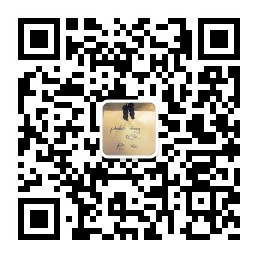
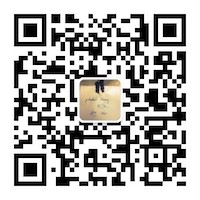
[T] resize images

Changed region(s): [[0.06, 0.06, 0.93, 0.93], [0.48, 0.42, 0.51, 0.48]]

diff --git a/ebook.md b/ebook.md
@@ -2,7 +2,7 @@
 关于作者
 ---
 
-黄峰达（Phodal Huang）是一个开发者、创作者和作家。他毕业于西安文理学院电子信息工程专业，现作为一个咨询师就职于 ThoughtWorks。长期活跃于开源软件社区 GitHub，目前专注于物联网和前端领域。他是一个开源狂热者，并创建了一系列的开源项目在 GitHub 上。每天在结束日常的工作后，他喜欢去重新发明一些轮子。
+黄峰达（Phodal Huang）是一个创客、工程师、咨询师和作家。他毕业于西安文理学院电子信息工程专业，现作为一个咨询师就职于 ThoughtWorks 深圳。长期活跃于开源软件社区 GitHub，目前专注于物联网和前端领域。
 
 作为一个开源软件作者，著有 Growth、Stepping、Lan、Echoesworks 等软件。其中开源学习应用 Growth，广受读者和用户好评，可在 APP Store 及各大 Android 应用商店下载。
 
@@ -12,16 +12,16 @@
 
 他热爱编程、写作、设计、旅行、hacking，你可以从他的个人网站：[https://www.phodal.com/](https://www.phodal.com/) 了解到更多的内容。
 
-作者微信公众号:
-
-![phodal-weixin](images/wechat.jpg)
-
-相关信息：
+其它相关信息：
 
  - 微博：[http://weibo.com/phodal](http://weibo.com/phodal)
  - GitHub： [https://github.com/phodal](https://github.com/phodal)
  - 知乎：[https://www.zhihu.com/people/phodal](https://www.zhihu.com/people/phodal)
  - SegmentFault：[https://segmentfault.com/u/phodal](https://segmentfault.com/u/phodal)
+
+当前为预览版，在使用的过程中遇到任何遇到请及时与我联系。阅读过程中问题，不烦在GitHub上提出来： [Issues](https://github.com/phodal/fe/issues)
+
+阅读过程中遇到语法错误、拼写错误、技术错误等等，不烦来个Pull Request，这样可以帮助到其他阅读这本电子书的童鞋。
 
 其他电子书：
 
@@ -32,11 +32,11 @@
  * 《[Growth: 全栈增长工程师指南](https://github.com/phodal/growth-ebook)》
  * 《[Growth: 全栈增长工程师实战](https://github.com/phodal/growth-in-action)》
 
-当前为预览版，在使用的过程中遇到任何遇到请及时与我联系。阅读过程中问题，不烦在GitHub上提出来： [Issues](https://github.com/phodal/fe/issues)
+作者微信公众号:
 
-阅读过程中遇到语法错误、拼写错误、技术错误等等，不烦来个Pull Request，这样可以帮助到其他阅读这本电子书的童鞋。
+![作者微信公众号：phodal-weixin](images/wechat.jpg)
 
-愿意支持作者或者遇到难题，可以加入 phodal 的小密圈:
+支持作者，可以加入作者的小密圈:
 
 ![小密圈](images/xiaomiquan.jpg)
 
@@ -77,55 +77,55 @@
 
 这些技能便是：
 
-### 入门
+#### 入门
 
 在我理解下的基础知识，就是我们可以写一些基本的样式，并能对页面的元素进行操作。举例来说，就是我们用Spring和JSP写了一个博客，然后我们可以用jQuery来对页面进行一些简单的操作，并可以调用一些API。因此，我们需要基本的HTML / CSS知识。只是要写好CSS并不是一件简单的事，这需要很多实战经验。随后，我们还需要有JavaScript的经验，要不怎么做前端呢？
 
 同时，我们还需要对DOM有一些基础的了解，才能做一些基本的操作，如修改颜色等等。在这种情况下，最简单的方案就是使用jQuery这样的工具。不过，如果可以自己操作DOM是再好不过的了。
 
-### 中级篇 
+#### 中级篇 
 
 中级篇就更有意思了，现在我们就需要对页面进行更复杂的操作。Ajax和JSON这两个技能是必须的，当我们要动态的改变页面的元素时，我们就需要从远程获取最新的数据结果。并且我们也需要提交表单到服务器，RESTful就是必须要学会的技能。未来我们还需要Fetch API，ReactiveX这些技能。
 
 除此我们还需要掌握好HTML的语义化，像DIV / CSS这也会必须会的技能，我们应该还会使用模板引擎和SCSS / SASS。而这个层面来说，我们开始使用Node.js来完成前端的构建等等的一系列动作，这时候必须学会使用命令行这类工具。并且，在这时候我们已经开始构建单页面应用了。
 
-### 高级篇
+#### 高级篇
 
 JavaScript是一门易上手的语言，也充满了相当多的糟粕的用法。几年前人们使用CoffeeScript编成成JavaScript来编写更好的前端代码，现在人们有了ES6、TypeScript和WebPack来做这些事。尽管现在浏览器支持不完善，但是他们是未来。同样的还有某些CSS3的特性，其对于某些浏览器来说也是不支持的。而这些都是基于语言本来说的，要写好代码，我们还需要掌握面向对象编程、函数式编程、MVC / MVVM / MV*这些概念。作为一合格的工程师，我们还需要把握好安全性（如跨域），做好 授权（如HTTP Basic、JWT等等）。
 
-### 工程化
+#### 工程化
 
 这个标题好像是放错了，这部分的内容主要都是自动构建的内容。首先，我们需要有基本的构建工具，无论你是使用gulp、grunt，还是只使用npm，这都不重要。重要的是，你可以自动化的完成构建的工具，编译、静态代码分析（JSLint、CSS Lint、TSLint）、对代码质量进行分析（如Code Climate，可以帮你检测出代码中的Bad Smell）、运行代码中的测试，并生成测试覆盖率的报告等等。这一切都需要你有一个自动构建的工作流。
 
-### 兼容性
+#### 兼容性
 
 虽然我们离兼容IE6的时代已越来越远了，但是我们仍然有相当多的兼容性工作要做。基本的兼容性测试就是跨浏览器的测试，即Chrome，IE，Firefox，Safari等等。除此还有在不同的操作系统上对同一浏览器的测试，某些情况下可能表现不一致。如不同操作系统的字体大小，可能会导致一些细微的问题。而随着移动设备的流行，我们还需要考虑下不同Android版本下的浏览器内核的表现不致，有时候还要一下不成器的Windows Phone。除此，还有同一个浏览器的不同版本问题，常见于IE。。
 
-### 前端特定
+#### 前端特定
 
 除了正常的编码之外，前端还有一些比较有意思的东西，如CSS3和JavaScript动画。使用Web字体，可惜这个不太适合汉字使用。还有Icon字体，毕竟这种字体是矢量的。不过Icon字体还有一些问题，如浏览器对其的抗锯齿优化，还有一个痛是你得准备四种不同类型的字体文件。因此，产生了一种东西SVG Sprite，在以前这就是CSS Sprite，只是CSS Sprite不能缩放。最后，我们还需要掌握一些基本的图形和图表框架的使用。
 
-### 软件工程
+#### 软件工程
 
 这一点上和大部分语言的项目一样，我们需要使用版本管理软件，如git、svn，又或者是一些内部的工具。总之你肯定要有一个，而不是 2016.07.31.zip这种文件。然后，你还需要一些依赖管理工具，对于那些使用Webpack、Browserify来将代码编写成前端代码的项目来说，npm还是挺好用的。不过就个人来说，对于传统的项目来说我总觉得bower有些难用。我们还需要模块化我们的源码文件，才能使其他人更容易开始项目。
 
-### 调试
+#### 调试
  
 作为一个工程师来说，调试是必备的技能。大部分浏览器都自带有调试工具，他们都不错——如果你使用过的话。在调试的过程中，直接用Console就可以输出值、计算值等等。如果你的项目在构建的过程中有一些问题，你就需要debugger这一行代码了。在一些调用远程API的项目里，我们还需要一些更复杂的工具，即抓包工具。在调试移动设备时，像Wireshark、Charles这一类的工具，就可以让我们看到是否有一些异常的请求。当然在这个时候，还有一个不错的工具就是像Chrome自带的远程设备调试。对于移动网站来说，还要有Responsive视图。
  
-### 测试
+#### 测试
 
 我遇到的很多前端工程师都是不写测试的，于是我便把它单独地抽了出现。对于一个前端项目来说，正常情况下，我们要有单元测试、功能测试，还有要一些UI测试来验证页面间是否可以跳转。对于依赖于第三方服务的应用来说，还要有一个Mock的服务来方便我们测试。如果是前后端分离的项目，我们还需要有集成测试。
 
-### 性能与优化
+#### 性能与优化
 
 要对Web应用进行性能优化，可能不是一件容易的事，有时候我们还知道哪些地方可以优化。这时候人们就可以使用Yahoo的YSlow，或者我最喜欢的Google PageSpeed来检测页面的一些问题，如有没有开启GZip、有没有压缩、合并、Minify JS代码等等。我们还应该借助于NetWork这一类的工具，查看页面加载时，一些比较漫的资源文件，并对其进行优化。在一些情况下，我们还需要借助如Chrome的Timline、Profiel等工具来查看可以优化的地方。
 
-### 设计
+#### 设计
 
 前端工程师还需要具备基本的UI技能。多数情况下拿到的只是一张图，如果是一个完整的页面，我们就需要快速分割页面布局。而依赖于不同的页面布局，如响应式、网格、FlexBox布局也会有不同的设计。而有些时候，我们就需要自己规划，制作一个基本的线框图（Wireframe）等等。
 
-### SEO
+#### SEO
 
 如果以搜索引擎作为流量来源，我们还需要考虑页面的内容，除非你用的是竞争排名。像Sitemap可能就不是我们考虑的内容，而我们还要考虑很多点。首先，我们需要保证页面的内容是对于搜索引擎是可见的，并且对应的页面还要有基本的Title、Description和Keyword。然后在一些关键的字体，如栏目标题等等可以用H2之类的大字的地方就不要放过。同时在页面设计的过程中，我们还需要考虑一些内部链接的建设。它即可以提供页面的可见度，又可以提高排名。最后，如果你是面向的是Google等支持结构化数据的搜索引擎，你还需要考虑一下MicroData / MicroFormat这一类东西。
 
@@ -1968,3 +1968,6 @@ domain: 库存子域
 上线后，用户反馈了一堆 Bug。
 
 最后，祝大家修 bug 愉快。
+
+
+![](images/phodal-sign.jpg)

diff --git a/chapters/0-prelude.md b/chapters/0-prelude.md
@@ -35,55 +35,55 @@
 
 这些技能便是：
 
-### 入门
+#### 入门
 
 在我理解下的基础知识，就是我们可以写一些基本的样式，并能对页面的元素进行操作。举例来说，就是我们用Spring和JSP写了一个博客，然后我们可以用jQuery来对页面进行一些简单的操作，并可以调用一些API。因此，我们需要基本的HTML / CSS知识。只是要写好CSS并不是一件简单的事，这需要很多实战经验。随后，我们还需要有JavaScript的经验，要不怎么做前端呢？
 
 同时，我们还需要对DOM有一些基础的了解，才能做一些基本的操作，如修改颜色等等。在这种情况下，最简单的方案就是使用jQuery这样的工具。不过，如果可以自己操作DOM是再好不过的了。
 
-### 中级篇 
+#### 中级篇 
 
 中级篇就更有意思了，现在我们就需要对页面进行更复杂的操作。Ajax和JSON这两个技能是必须的，当我们要动态的改变页面的元素时，我们就需要从远程获取最新的数据结果。并且我们也需要提交表单到服务器，RESTful就是必须要学会的技能。未来我们还需要Fetch API，ReactiveX这些技能。
 
 除此我们还需要掌握好HTML的语义化，像DIV / CSS这也会必须会的技能，我们应该还会使用模板引擎和SCSS / SASS。而这个层面来说，我们开始使用Node.js来完成前端的构建等等的一系列动作，这时候必须学会使用命令行这类工具。并且，在这时候我们已经开始构建单页面应用了。
 
-### 高级篇
+#### 高级篇
 
 JavaScript是一门易上手的语言，也充满了相当多的糟粕的用法。几年前人们使用CoffeeScript编成成JavaScript来编写更好的前端代码，现在人们有了ES6、TypeScript和WebPack来做这些事。尽管现在浏览器支持不完善，但是他们是未来。同样的还有某些CSS3的特性，其对于某些浏览器来说也是不支持的。而这些都是基于语言本来说的，要写好代码，我们还需要掌握面向对象编程、函数式编程、MVC / MVVM / MV*这些概念。作为一合格的工程师，我们还需要把握好安全性（如跨域），做好 授权（如HTTP Basic、JWT等等）。
 
-### 工程化
+#### 工程化
 
 这个标题好像是放错了，这部分的内容主要都是自动构建的内容。首先，我们需要有基本的构建工具，无论你是使用gulp、grunt，还是只使用npm，这都不重要。重要的是，你可以自动化的完成构建的工具，编译、静态代码分析（JSLint、CSS Lint、TSLint）、对代码质量进行分析（如Code Climate，可以帮你检测出代码中的Bad Smell）、运行代码中的测试，并生成测试覆盖率的报告等等。这一切都需要你有一个自动构建的工作流。
 
-### 兼容性
+#### 兼容性
 
 虽然我们离兼容IE6的时代已越来越远了，但是我们仍然有相当多的兼容性工作要做。基本的兼容性测试就是跨浏览器的测试，即Chrome，IE，Firefox，Safari等等。除此还有在不同的操作系统上对同一浏览器的测试，某些情况下可能表现不一致。如不同操作系统的字体大小，可能会导致一些细微的问题。而随着移动设备的流行，我们还需要考虑下不同Android版本下的浏览器内核的表现不致，有时候还要一下不成器的Windows Phone。除此，还有同一个浏览器的不同版本问题，常见于IE。。
 
-### 前端特定
+#### 前端特定
 
 除了正常的编码之外，前端还有一些比较有意思的东西，如CSS3和JavaScript动画。使用Web字体，可惜这个不太适合汉字使用。还有Icon字体，毕竟这种字体是矢量的。不过Icon字体还有一些问题，如浏览器对其的抗锯齿优化，还有一个痛是你得准备四种不同类型的字体文件。因此，产生了一种东西SVG Sprite，在以前这就是CSS Sprite，只是CSS Sprite不能缩放。最后，我们还需要掌握一些基本的图形和图表框架的使用。
 
-### 软件工程
+#### 软件工程
 
 这一点上和大部分语言的项目一样，我们需要使用版本管理软件，如git、svn，又或者是一些内部的工具。总之你肯定要有一个，而不是 2016.07.31.zip这种文件。然后，你还需要一些依赖管理工具，对于那些使用Webpack、Browserify来将代码编写成前端代码的项目来说，npm还是挺好用的。不过就个人来说，对于传统的项目来说我总觉得bower有些难用。我们还需要模块化我们的源码文件，才能使其他人更容易开始项目。
 
-### 调试
+#### 调试
  
 作为一个工程师来说，调试是必备的技能。大部分浏览器都自带有调试工具，他们都不错——如果你使用过的话。在调试的过程中，直接用Console就可以输出值、计算值等等。如果你的项目在构建的过程中有一些问题，你就需要debugger这一行代码了。在一些调用远程API的项目里，我们还需要一些更复杂的工具，即抓包工具。在调试移动设备时，像Wireshark、Charles这一类的工具，就可以让我们看到是否有一些异常的请求。当然在这个时候，还有一个不错的工具就是像Chrome自带的远程设备调试。对于移动网站来说，还要有Responsive视图。
  
-### 测试
+#### 测试
 
 我遇到的很多前端工程师都是不写测试的，于是我便把它单独地抽了出现。对于一个前端项目来说，正常情况下，我们要有单元测试、功能测试，还有要一些UI测试来验证页面间是否可以跳转。对于依赖于第三方服务的应用来说，还要有一个Mock的服务来方便我们测试。如果是前后端分离的项目，我们还需要有集成测试。
 
-### 性能与优化
+#### 性能与优化
 
 要对Web应用进行性能优化，可能不是一件容易的事，有时候我们还知道哪些地方可以优化。这时候人们就可以使用Yahoo的YSlow，或者我最喜欢的Google PageSpeed来检测页面的一些问题，如有没有开启GZip、有没有压缩、合并、Minify JS代码等等。我们还应该借助于NetWork这一类的工具，查看页面加载时，一些比较漫的资源文件，并对其进行优化。在一些情况下，我们还需要借助如Chrome的Timline、Profiel等工具来查看可以优化的地方。
 
-### 设计
+#### 设计
 
 前端工程师还需要具备基本的UI技能。多数情况下拿到的只是一张图，如果是一个完整的页面，我们就需要快速分割页面布局。而依赖于不同的页面布局，如响应式、网格、FlexBox布局也会有不同的设计。而有些时候，我们就需要自己规划，制作一个基本的线框图（Wireframe）等等。
 
-### SEO
+#### SEO
 
 如果以搜索引擎作为流量来源，我们还需要考虑页面的内容，除非你用的是竞争排名。像Sitemap可能就不是我们考虑的内容，而我们还要考虑很多点。首先，我们需要保证页面的内容是对于搜索引擎是可见的，并且对应的页面还要有基本的Title、Description和Keyword。然后在一些关键的字体，如栏目标题等等可以用H2之类的大字的地方就不要放过。同时在页面设计的过程中，我们还需要考虑一些内部链接的建设。它即可以提供页面的可见度，又可以提高排名。最后，如果你是面向的是Google等支持结构化数据的搜索引擎，你还需要考虑一下MicroData / MicroFormat这一类东西。
 

diff --git a/chapters/0-index.md b/chapters/0-index.md
@@ -1,7 +1,7 @@
 关于作者
 ---
 
-黄峰达（Phodal Huang）是一个开发者、创作者和作家。他毕业于西安文理学院电子信息工程专业，现作为一个咨询师就职于 ThoughtWorks。长期活跃于开源软件社区 GitHub，目前专注于物联网和前端领域。他是一个开源狂热者，并创建了一系列的开源项目在 GitHub 上。每天在结束日常的工作后，他喜欢去重新发明一些轮子。
+黄峰达（Phodal Huang）是一个创客、工程师、咨询师和作家。他毕业于西安文理学院电子信息工程专业，现作为一个咨询师就职于 ThoughtWorks 深圳。长期活跃于开源软件社区 GitHub，目前专注于物联网和前端领域。
 
 作为一个开源软件作者，著有 Growth、Stepping、Lan、Echoesworks 等软件。其中开源学习应用 Growth，广受读者和用户好评，可在 APP Store 及各大 Android 应用商店下载。
 
@@ -11,16 +11,16 @@
 
 他热爱编程、写作、设计、旅行、hacking，你可以从他的个人网站：[https://www.phodal.com/](https://www.phodal.com/) 了解到更多的内容。
 
-作者微信公众号:
-
-![phodal-weixin](../images/wechat.jpg)
-
-相关信息：
+其它相关信息：
 
  - 微博：[http://weibo.com/phodal](http://weibo.com/phodal)
  - GitHub： [https://github.com/phodal](https://github.com/phodal)
  - 知乎：[https://www.zhihu.com/people/phodal](https://www.zhihu.com/people/phodal)
  - SegmentFault：[https://segmentfault.com/u/phodal](https://segmentfault.com/u/phodal)
+
+当前为预览版，在使用的过程中遇到任何遇到请及时与我联系。阅读过程中问题，不烦在GitHub上提出来： [Issues](https://github.com/phodal/fe/issues)
+
+阅读过程中遇到语法错误、拼写错误、技术错误等等，不烦来个Pull Request，这样可以帮助到其他阅读这本电子书的童鞋。
 
 其他电子书：
 
@@ -31,10 +31,10 @@
  * 《[Growth: 全栈增长工程师指南](https://github.com/phodal/growth-ebook)》
  * 《[Growth: 全栈增长工程师实战](https://github.com/phodal/growth-in-action)》
 
-当前为预览版，在使用的过程中遇到任何遇到请及时与我联系。阅读过程中问题，不烦在GitHub上提出来： [Issues](https://github.com/phodal/fe/issues)
+作者微信公众号:
 
-阅读过程中遇到语法错误、拼写错误、技术错误等等，不烦来个Pull Request，这样可以帮助到其他阅读这本电子书的童鞋。
+![作者微信公众号：phodal-weixin](../images/wechat.jpg)
 
-愿意支持作者或者遇到难题，可以加入 phodal 的小密圈:
+支持作者，可以加入作者的小密圈:
 
 ![小密圈](../images/xiaomiquan.jpg)

diff --git a/chapters/z-end.md b/chapters/z-end.md
@@ -1,0 +1,2 @@
+
+![](../images/phodal-sign.jpg)
